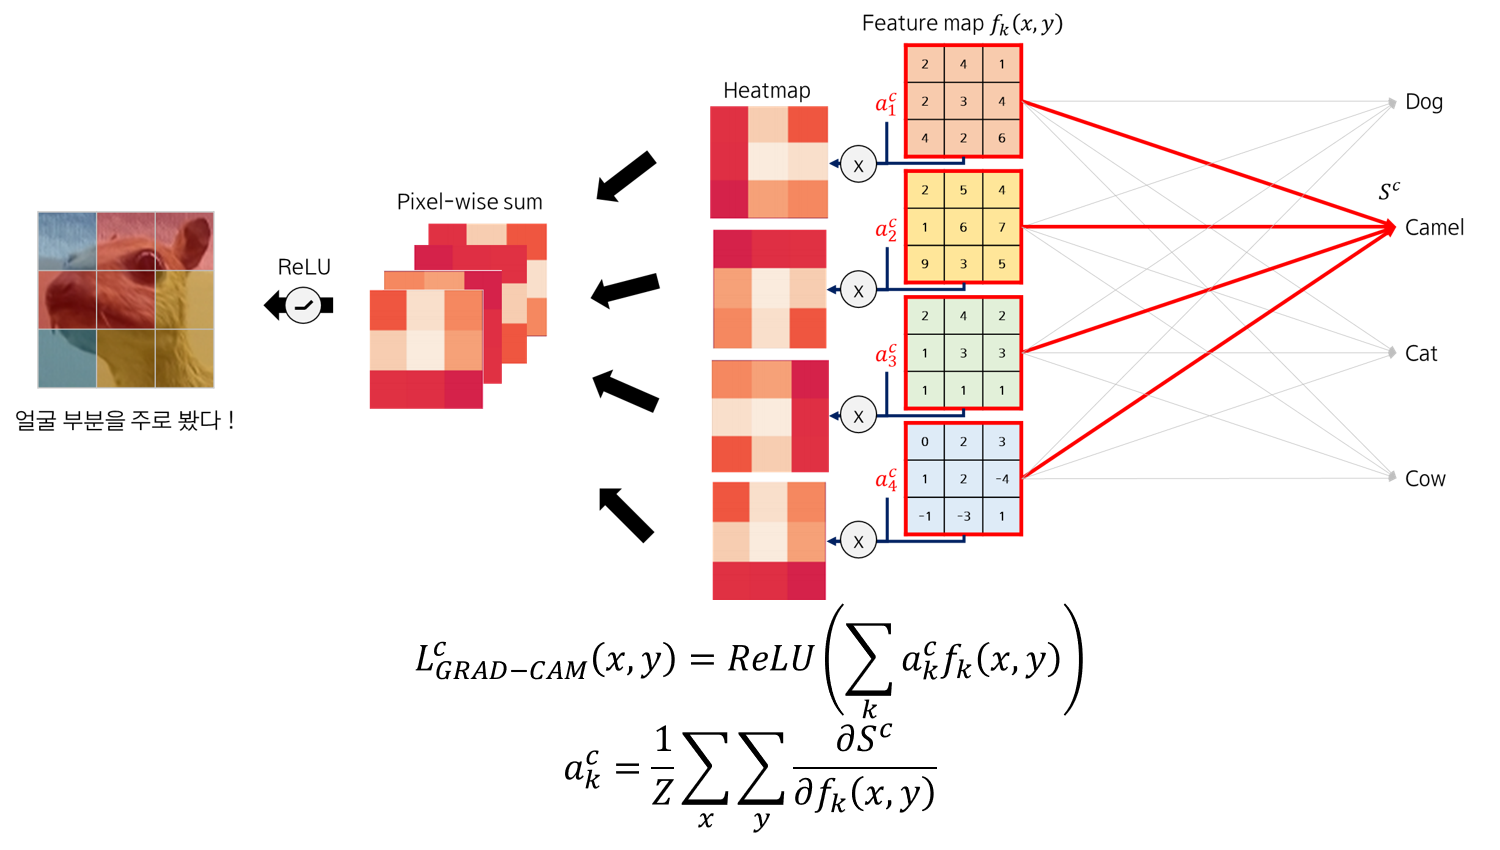
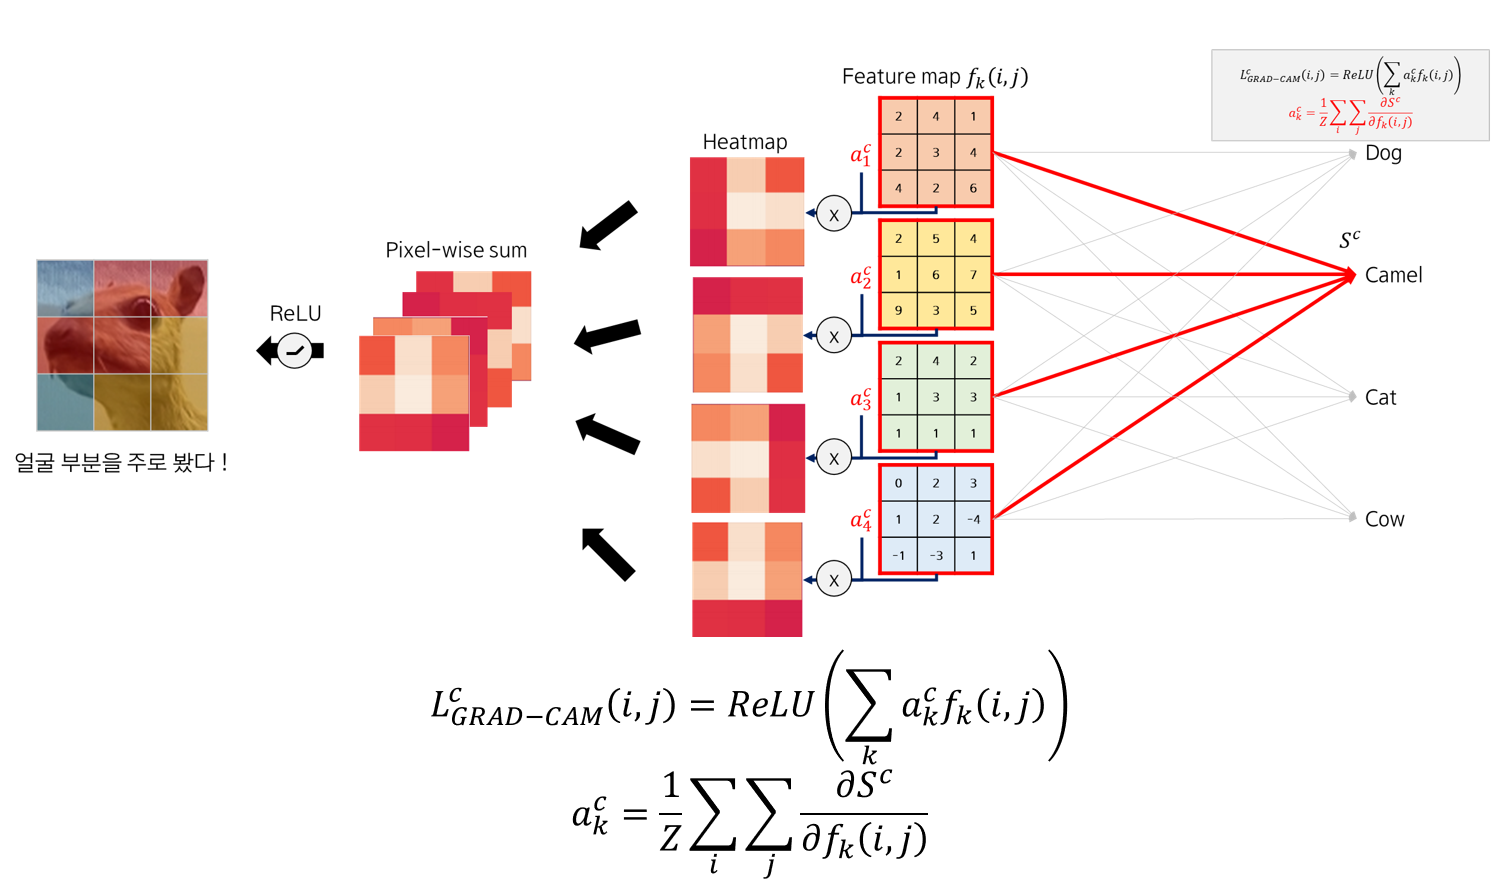
[2020-10-26] CNN visualization post

diff --git a/_posts/2020-10-27-CNN-visualization-Grad-CAM.md b/_posts/2020-10-27-CNN-visualization-Grad-CAM.md
@@ -1,0 +1,198 @@
+---
+title: "CNN visualization: CAM and Grad-CAM 설명"
+excerpt: "CNN 모델의 학습결과를 시각화하는 Weakly-supervised learning의 예시로 CAM과 Grad-CAM을 정리해봅니다"
+
+categories:
+- Deep learning
+
+tags:
+- Deep learning
+- Convolutional neural network
+- Visualization
+- Class activation map
+
+toc: true
+toc_sticky: true
+toc_label: "CNN visualization: CAM and Grad-CAM"
+
+use_math: true
+---
+
+> 이번 포스팅에서는 **CNN 모델이 어느 곳을 보고 있는지**를 알려주는 weak supervised learning 알고리즘 (CAM, Grad-CAM)에 대해 정리해보고자 합니다.
+
+![2020-10-27-cnn-visualization-grad-cam-1-visualization-example]({{ site.url }}{{ site.baseurl }}/assets/images/post/MEDIA/2020-10-27-CNN-visualization-Grad-CAM/2020-10-27-cnn-visualization-grad-cam-1-visualization-example.png)
+
+학습한 네트워크가 이미지를 개라고 판별할 때와 고양이라고 판별할 때, 각각 이미지에서 중요하게 생각하는 영역은 다를 것입니다. 이를 시각화해주는 알고리즘이 바로 Class Activation Map (CAM) 관련 알고리즘들입니다.
+
+## Convolutional neural network (CNN)
+
+CNN에 대한 설명은 [이전 포스팅]({{ site.url }}{{ site.baseurl }}/medical%20image%20analysis/MEDIA-5-classification-for-medical-image-3-CNN/)을 참고해주세요 !
+
+## Weakly Supervised learning
+
+![2020-10-27-cnn-visualization-grad-cam-1-weakly-supervised-learning-example2]({{ site.url }}{{ site.baseurl }}/assets/images/post/MEDIA/2020-10-27-CNN-visualization-Grad-CAM/2020-10-27-cnn-visualization-grad-cam-1-weakly-supervised-learning-example2.png)
+
+학습 이미지에 대한 라벨만 있는 상황에서, 이미지의 어느 곳을 보았는가? 를 알고 싶을 때, 또는 학습 bounding box만 있는 상황에서, 각 pixel에 대한 label을 알고 싶을 때가 있을 것입니다.
+
+즉, 학습할 이미지에 대한 정보보다 예측해야할 정보가 더 디테일한 경우, 이를 Weakly supervised learning이라고 부릅니다.
+
+![2020-10-27-cnn-visualization-grad-cam-1-weakly-supervised-learning-example1]({{ site.url }}{{ site.baseurl }}/assets/images/post/MEDIA/2020-10-27-CNN-visualization-Grad-CAM/2020-10-27-cnn-visualization-grad-cam-1-weakly-supervised-learning-example1.png)
+
+오늘 다룰 CAM도 마찬가지로 이미지에 대한 label만 갖고 CNN 모델을 학습했지만, 결과적으로 이미지의 어느 부분을 주로 보았는가?를 알 수 있다는 점에서 Weakly supervised learning이라고 할 수 있습니다.
+
+## Class Activation Map (CAM)
+
+### Paper (2016)
+
+본격적으로 CAM을 공부해봅시다.
+
+![2020-10-27-cnn-visualization-grad-cam-2-cam-paper]({{ site.url }}{{ site.baseurl }}/assets/images/post/MEDIA/2020-10-27-CNN-visualization-Grad-CAM/2020-10-27-cnn-visualization-grad-cam-2-cam-paper.png)
+
+CAM은 2016년 CVPR에서 발표되었습니다.
+
+![2020-10-27-cnn-visualization-grad-cam-3-cam-gap]({{ site.url }}{{ site.baseurl }}/assets/images/post/MEDIA/2020-10-27-CNN-visualization-Grad-CAM/2020-10-27-cnn-visualization-grad-cam-3-cam-gap.png)
+
+CAM을 요약한 이미지입니다. 눈에 띄는 정보로는 GAP 이라는 레이어가 보입니다. 마지막 Convolutional layer와 Target class 정보간 weight를 통해 Class Activation Map을 계산한다는 것을 확인할 수 있습니다.
+
+### CNN architecture (conventional VS CAM)
+
+![2020-10-27-cnn-visualization-grad-cam-4-cnn-architecture]({{ site.url }}{{ site.baseurl }}/assets/images/post/MEDIA/2020-10-27-CNN-visualization-Grad-CAM/2020-10-27-cnn-visualization-grad-cam-4-cnn-architecture.png)
+
+일반적인 CNN 구조는 Convolutional layer가 몇 장 있고, Fully-connected layer가 따라 붙는 구조를 띕니다.
+
+![2020-10-27-cnn-visualization-grad-cam-5-cnn-architecture-with-cam]({{ site.url }}{{ site.baseurl }}/assets/images/post/MEDIA/2020-10-27-CNN-visualization-Grad-CAM/2020-10-27-cnn-visualization-grad-cam-5-cnn-architecture-with-cam.png)
+
+하지만 CAM 계산을 위해서는 Convolutional layer 이후를 Global Average Pooling (GAP) 레이어로 바꾸어주어야 합니다.
+
+### Global Average Pooling (GAP)
+
+![2020-10-27-cnn-visualization-grad-cam-6-gap]({{ site.url }}{{ site.baseurl }}/assets/images/post/MEDIA/2020-10-27-CNN-visualization-Grad-CAM/2020-10-27-cnn-visualization-grad-cam-6-gap.png)
+
+Global Average Pooling (GAP) layer는 입력 이미지의 모든 값의 평균을 출력을 내어줍니다. GAP 레이어로 들어오는 입력 이미지 feature map의 depth가 4라고 하면, 총 4개 값으로 이루어진 벡터를 얻게되는 것이죠.
+
+극단적인 dimension reduction이라고 볼 수도 있습니다.
+
+### Fine tuning
+
+![2020-10-27-cnn-visualization-grad-cam-7-gap-fcn]({{ site.url }}{{ site.baseurl }}/assets/images/post/MEDIA/2020-10-27-CNN-visualization-Grad-CAM/2020-10-27-cnn-visualization-grad-cam-7-gap-fcn.png)
+
+GAP가 끝나면 뒤에는 각 클래스로 연결되는 Fully-connected layer를 붙여 fine-tuning 시킵니다.
+
+![2020-10-27-cnn-visualization-grad-cam-8-cam-definition-equation]({{ site.url }}{{ site.baseurl }}/assets/images/post/MEDIA/2020-10-27-CNN-visualization-Grad-CAM/2020-10-27-cnn-visualization-grad-cam-8-cam-definition-equation.png)
+
+이 때 클래스 \\(c\\)에 대한 CAM 이미지는 아래와 같이 계산할 수 있습니다.
+
+\\[
+L_{CAM}^c (i,j)=\sum_k w_k^c f_k(i,j)
+\\]
+
+- \\(f_k(i,j)\\): \\(k\\)번째 feature image (\\(i,j\\)는 x, y 축 좌표를 의미함)
+- \\(w_k^c\\): \\(k\\)번째 feature image \\(f_k(i,j)\\)에서 class \\(c\\)로 가는 weight
+
+![2020-10-27-cnn-visualization-grad-cam-9-cam-1]({{ site.url }}{{ site.baseurl }}/assets/images/post/MEDIA/2020-10-27-CNN-visualization-Grad-CAM/2020-10-27-cnn-visualization-grad-cam-9-cam-1.png)
+
+그림으로 나타내보자면 이렇게 됩니다.
+
+각 feature map \\(f_k(i,j)\\)에 각 class에 대한 가중치 \\(w_k^c\\)를 곱해주면 heatmap을 feature map 개수 \\(k\\)만큼 얻을 수 있습니다.
+
+![2020-10-27-cnn-visualization-grad-cam-10-cam-2]({{ site.url }}{{ site.baseurl }}/assets/images/post/MEDIA/2020-10-27-CNN-visualization-Grad-CAM/2020-10-27-cnn-visualization-grad-cam-10-cam-2.png)
+
+이 heatmap 이미지를 모두 pixel-wise sum을 해주면, 하나의 heatmap을 얻을 수 있는데, 이게 바로 CAM 입니다.
+
+![2020-10-27-cnn-visualization-grad-cam-11-cam-summary]({{ site.url }}{{ site.baseurl }}/assets/images/post/MEDIA/2020-10-27-CNN-visualization-Grad-CAM/2020-10-27-cnn-visualization-grad-cam-11-cam-summary.png)
+
+전체 과정을 요약하면 이렇게 됩니다.
+
+![2020-10-27-cnn-visualization-grad-cam-12-cam-other-case]({{ site.url }}{{ site.baseurl }}/assets/images/post/MEDIA/2020-10-27-CNN-visualization-Grad-CAM/2020-10-27-cnn-visualization-grad-cam-12-cam-other-case.png)
+
+CAM의 특징은 class마다 계산할 수 있다는 점 입니다. 즉, Dog class로 CAM을 계산할 경우에는, 다른 heatmap을 얻게됩니다.
+
+### Reason for last conv layer
+
+마지막 Convolutional layer에 붙이는 이유는 GAP을 붙이기 용이하다는 점도 있지만, 각 레이어가 나타내는 정보도 영향이 있습니다.
+
+![2020-10-27-cnn-visualization-grad-cam-13-reason-fot-last-conv-layer]({{ site.url }}{{ site.baseurl }}/assets/images/post/MEDIA/2020-10-27-CNN-visualization-Grad-CAM/2020-10-27-cnn-visualization-grad-cam-13-reason-fot-last-conv-layer.png)
+
+CNN의 각 레이어는 처음에는 specific한 정보를, 뒤로 갈수록 broad한 범위의 정보를 갖습니다. 따라서 이미지 전체 중 특정 영역을 찾기 위한 레이어로 마지막레이어가 가장 더 적합하다고 말할 수 있습니다.
+
+### Results
+
+![2020-10-27-cnn-visualization-grad-cam-14-cam-result]({{ site.url }}{{ site.baseurl }}/assets/images/post/MEDIA/2020-10-27-CNN-visualization-Grad-CAM/2020-10-27-cnn-visualization-grad-cam-14-cam-result.png)
+
+CAM의 결과이미지입니다. 학습이 잘 일어난 경우 label을 잘 설명하는 것을 확인할 수 있습니다.
+
+### Limitation of CAM
+
+CAM은 간단히 계산할 수 있는 유용한 툴이지만, Global Average Pooling layer를 사용해야만 한다는 한계점을 갖습니다. GAP으로 대치하게되면 뒷부분을 다시 또 fine tuning 해야하며, 마지막 Convolutional layer에 대해서만 CAM을 추출할 수 있다는 점도 한계점이라고 말할 수 있습니다.
+
+## Gradient CAM (Grad-CAM)
+
+![2020-10-27-cnn-visualization-grad-cam-15-grad-cam-paper]({{ site.url }}{{ site.baseurl }}/assets/images/post/MEDIA/2020-10-27-CNN-visualization-Grad-CAM/2020-10-27-cnn-visualization-grad-cam-15-grad-cam-paper.png)
+
+바로 다음 해 2017년 ICCV에서 Grad-CAM의 저자들은 이 문제를 Gradient를 이용해 해결했습니다.
+
+### Gradient
+
+먼저 Gradient의 특징에 대해 짚고 넘어갑시다.
+
+![2020-10-27-cnn-visualization-grad-cam-16-gradient-1]({{ site.url }}{{ site.baseurl }}/assets/images/post/MEDIA/2020-10-27-CNN-visualization-Grad-CAM/2020-10-27-cnn-visualization-grad-cam-16-gradient-1.png)
+
+hidden layer가 없는 경우, 각 input 노드는 output 노드에 하나의 weight를 통해 영향을 줍니다. 또한 이 path를 통해 Gradient 가 역전파됩니다.
+
+![2020-10-27-cnn-visualization-grad-cam-17-gradient-2]({{ site.url }}{{ site.baseurl }}/assets/images/post/MEDIA/2020-10-27-CNN-visualization-Grad-CAM/2020-10-27-cnn-visualization-grad-cam-17-gradient-2.png)
+
+hidden layer가 추가되면, 각 input 노드는 모든 hidden layer의 노드를 거쳐 output 노드에 영향을 줍니다. Gradient 또한 모든 hidden layer를 거쳐 역전파됩니다.
+
+![2020-10-27-cnn-visualization-grad-cam-18-gradient-3]({{ site.url }}{{ site.baseurl }}/assets/images/post/MEDIA/2020-10-27-CNN-visualization-Grad-CAM/2020-10-27-cnn-visualization-grad-cam-18-gradient-3.png)
+
+즉, Gradient는 **Class \\(C\\)에 대해 Input \\(K\\)가 주는 영향력**이라고 말할 수 있습니다.
+
+### CNN architecture for Grad-CAM
+
+![2020-10-27-cnn-visualization-grad-cam-4-cnn-architecture]({{ site.url }}{{ site.baseurl }}/assets/images/post/MEDIA/2020-10-27-CNN-visualization-Grad-CAM/2020-10-27-cnn-visualization-grad-cam-4-cnn-architecture.png)
+
+Grad-CAM을 위해서는 별도의 CNN 구조를 따를 필요가 없습니다. 즉 GAP 레이어를 쓰지 않아도 된다는 말입니다 !
+
+### Generalized CAM
+
+Grad-CAM은 GAP을 쓸 필요가 없다는 점에서 일반화된 CAM이라고도 말할 수 있습니다.
+
+CAM의 수식은
+\\[
+L_{CAM}^c (i,j)=\sum_k w_k^c f_k(i,j)
+\\]
+이었고
+
+Grad-CAM의 수식은
+\\[
+L_{Grad-CAM}^c (i,j)=ReLU(\sum_k a_k^c f_k(i,j)) \\\\\\
+a_k^c=\frac{1}{Z} \sum_i \sum_j \frac{\partial S^c}{\partial f_k(i,j)}
+\\]
+입니다.
+
+두 식의 차이점은 ReLU 함수가 추가되었다는 점과 \\(w_k^c\\)가 \\(a_k^c\\)로 변경되었다는 점입니다.
+
+\\(a_k^c\\)의 수식을 글로 풀어 설명해보면, \\(k\\)번째 feature map \\(f_k(i,j)\\)의 각 원소 \\(i,j\\)가 Output class \\(c\\)의 matmul값 \\(S^c\\)에 주는 영향력의 평균이라고 말할 수 있습니다.
+
+즉, CAM에서는 weight으로 주었던 각 feature map의 가중치를, Gradient로 대신 주었다고 생각하면 됩니다.
+
+![2020-10-27-cnn-visualization-grad-cam-19-grad-cam-1]({{ site.url }}{{ site.baseurl }}/assets/images/post/MEDIA/2020-10-27-CNN-visualization-Grad-CAM/2020-10-27-cnn-visualization-grad-cam-19-grad-cam-1.png)
+
+그림으로 표현하면 이렇게 되겠죠. Gradient의 픽셀별 평균값인 \\(a_k^c\\)를 각 feature map \\(f_k(i,j)\\)에 곱해 heatmap을 만듭니다.
+
+![2020-10-27-cnn-visualization-grad-cam-20-grad-cam-summary]({{ site.url }}{{ site.baseurl }}/assets/images/post/MEDIA/2020-10-27-CNN-visualization-Grad-CAM/2020-10-27-cnn-visualization-grad-cam-20-grad-cam-summary.png)
+
+그리고 마찬가지로 pixel-wise sum을 한 후, ReLU 함수를 적용해 양의 가중치를 갖는 (중요하게 여기는) 부분을 골라내면 Grad-CAM이 됩니다.
+
+### Result
+
+![2020-10-27-cnn-visualization-grad-cam-21-grad-cam-result]({{ site.url }}{{ site.baseurl }}/assets/images/post/MEDIA/2020-10-27-CNN-visualization-Grad-CAM/2020-10-27-cnn-visualization-grad-cam-21-grad-cam-result.png)
+
+Grad-CAM의 결과입니다. 사진 속 (b)는 Guided backpropagation이라는 방법인데, specific한 곳을 visualization 해주는 방법입니다. 따라서 local 한 특성을 보여주는 Grad-CAM과 Specific한 특성을 보여주는 Guided backpropagation을 pixel-wise multiplication하게되면, Local+Specific 특징을 모두 갖는 Guided Grad-CAM을 얻을 수 있습니다.
+
+---
+
+## Reference
+- [Grad-CAM: 대선주자 얼굴 위치 추적기](https://jsideas.net/grad_cam/): 설명뿐 아니라 Grad-CAM과 CAM이 수식적으로 동일하다는 증명을 적어둔 포스트입니다. 추가로 Keras 구현도 되어있습니다.
+
+- [고려대학교 DMQA 랩 세미나, 백인성 님 발표 자료](http://dmqm.korea.ac.kr/activity/seminar/274): 설명 이미지 만들 때 참고자료로 사용했습니다.

diff --git a/_posts/2020-10-23-MEDIA-3-classification-for-medical-image-1.md b/_posts/2020-10-23-MEDIA-3-classification-for-medical-image-1.md
@@ -10,6 +10,13 @@ tags:
 - Lecture
 - Machine learning
 - Deep learning
+- Logistic regression
+- Gradient descent algorithm
+- Support vector machine
+- Random forest
+- Neural network
+- Deep neural network
+- Demographic score
 
 toc: true
 toc_sticky: true

diff --git a/_posts/2020-09-29-decision-tree-1-concept.md b/_posts/2020-09-29-decision-tree-1-concept.md
@@ -7,8 +7,10 @@ categories:
 
 tags:
 - Machine learning
-- Decision Tree
+- Decision tree
 - Algorithm
+- Bagging
+- Boosting
 
 toc: true
 toc_sticky: true

diff --git a/_posts/2020-10-25-MEDIA-5-classification-for-medical-image-3-CNN.md b/_posts/2020-10-25-MEDIA-5-classification-for-medical-image-3-CNN.md
@@ -9,6 +9,7 @@ tags:
 - Medical Image Analysis
 - Lecture
 - Deep learning
+- Convolutional neural network
 
 toc: true
 toc_sticky: true

diff --git a/_posts/2020-10-26-MEDIA-6-classification-for-medical-image-4-advanced-CNN.md b/_posts/2020-10-26-MEDIA-6-classification-for-medical-image-4-advanced-CNN.md
@@ -9,6 +9,7 @@ tags:
 - Medical Image Analysis
 - Lecture
 - Deep learning
+- Convolutional neural network
 
 toc: true
 toc_sticky: true

diff --git a/_posts/2020-10-24-MEDIA-4-classification-for-medical-image-2-dnn.md b/_posts/2020-10-24-MEDIA-4-classification-for-medical-image-2-dnn.md
@@ -9,6 +9,7 @@ tags:
 - Medical Image Analysis
 - Lecture
 - Deep learning
+- Deep neural network
 
 toc: true
 toc_sticky: true

diff --git a/_posts/2020-10-18-GAN-2-implementation-GAN.md b/_posts/2020-10-18-GAN-2-implementation-GAN.md
@@ -7,7 +7,7 @@ categories:
 
 tags:
 - Deep learning
-- GAN
+- Generative adversarial network
 - Implementation
 
 toc: true

diff --git a/_posts/2020-10-19-GAN-3-implementation-DCGAN.md b/_posts/2020-10-19-GAN-3-implementation-DCGAN.md
@@ -7,7 +7,7 @@ categories:
 
 tags:
 - Deep learning
-- GAN
+- Generative adversarial network
 - Implementation
 
 toc: true

diff --git a/_posts/2020-10-16-machine-learning-2-bias-and-variance.md b/_posts/2020-10-16-machine-learning-2-bias-and-variance.md
@@ -8,6 +8,8 @@ categories:
 tags:
 - Machine learning
 - Algorithm
+- Bias
+- Variance
 
 toc: true
 toc_sticky: true

diff --git a/_posts/2020-09-30-decision-tree-2-ID3.md b/_posts/2020-09-30-decision-tree-2-ID3.md
@@ -7,7 +7,7 @@ categories:
 
 tags:
 - Machine learning
-- Decision Tree
+- Decision tree
 - Algorithm
 
 toc: true

diff --git a/_posts/2020-10-04-decision-tree-3-c4_5.md b/_posts/2020-10-04-decision-tree-3-c4_5.md
@@ -7,7 +7,7 @@ categories:
 
 tags:
 - Machine learning
-- Decision Tree
+- Decision tree
 - Algorithm
 
 toc: true

diff --git a/_posts/2020-10-05-decision-tree-4-CART.md b/_posts/2020-10-05-decision-tree-4-CART.md
@@ -7,7 +7,7 @@ categories:
 
 tags:
 - Machine learning
-- Decision Tree
+- Decision tree
 - Algorithm
 
 toc: true
